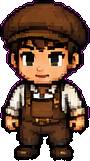
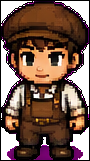
RP7 · Cliff Fisher (humanoid_20 overwrite) + Village Elder (new humanoid) wired · portraits + BETA_NPC 4-dir sheets + dialog prefixes + villager rename (Village Keeper → Village Elder) · preview gallery updated

diff --git a/rp7.html b/rp7.html
@@ -8396,6 +8396,8 @@ const DISTRICT_ORDER = ['malezor','zarvane','andrannor','veridan','netharion','v
 const NPC_ASSETS = {
   kelthor:            '/assets/humanoids/humanoid_06.png',
   quinn:              '/assets/humanoids/humanoid_30.png',
+  cliff_fisher:       '/assets/humanoids/humanoid_20.png',       // ★ 2026-07-30
+  village_elder:      '/assets/humanoids/village_elder.png',     // ★ 2026-07-30
   mom:                '/assets/humanoids/humanoid_24.png',
   dad:                '/assets/humanoids/humanoid_32.png',
   myara:              '/assets/humanoids/humanoid_42.png',
@@ -8419,6 +8421,11 @@ const DIALOG_PORTRAIT_PREFIX = {
   'MYARA:':          'myara',
   'YARA:':           'yara',
   'JAX:':            'jax',
+  'QUINN:':          'quinn',
+  'CLIFF FISHER:':   'cliff_fisher',    // ★ 2026-07-30
+  'FISHER:':         'cliff_fisher',
+  'VILLAGE ELDER:':  'village_elder',   // ★ 2026-07-30
+  'ELDER:':          'village_elder',
 };
 // Battle trainer-name → NPC_ASSETS key
 const BATTLE_TRAINER_ASSETS = {
@@ -8842,10 +8849,13 @@ const BETA_NPC = {
     // front pose; right + up cells re-use the front pose until the user
     // ships real side / back art.  dirs:true so the render code picks the
     // correct cell whenever the player turns to face them.
-    kelthor: { idle: new Image(), blink: new Image(), dirs: true },
-    yara:    { idle: new Image(), blink: new Image(), dirs: true },
-    jax:     { idle: new Image(), blink: new Image(), dirs: true },
-    quinn:   { idle: new Image(), blink: new Image(), dirs: true },
+    kelthor:       { idle: new Image(), blink: new Image(), dirs: true },
+    yara:          { idle: new Image(), blink: new Image(), dirs: true },
+    jax:           { idle: new Image(), blink: new Image(), dirs: true },
+    quinn:         { idle: new Image(), blink: new Image(), dirs: true },
+    // ★ 2026-07-30 · Malezor villagers.
+    cliff_fisher:  { idle: new Image(), blink: new Image(), dirs: true },
+    village_elder: { idle: new Image(), blink: new Image(), dirs: true },
   },
 };
 // ★ 2026-07-29 · Sprite swapped from Myara → Sonya.  Internal registry key
@@ -8872,6 +8882,10 @@ BETA_NPC.sprites.jax.idle.src      = 'assets/rp7/beta_assets/npc/jax_idle_dirs_n
 BETA_NPC.sprites.jax.blink.src     = 'assets/rp7/beta_assets/npc/jax_idle_dirs_native.png';
 BETA_NPC.sprites.quinn.idle.src    = 'assets/rp7/beta_assets/npc/quinn_idle_dirs_native.png';
 BETA_NPC.sprites.quinn.blink.src   = 'assets/rp7/beta_assets/npc/quinn_idle_dirs_native.png';
+BETA_NPC.sprites.cliff_fisher.idle.src   = 'assets/rp7/beta_assets/npc/cliff_fisher_idle_dirs_native.png';
+BETA_NPC.sprites.cliff_fisher.blink.src  = 'assets/rp7/beta_assets/npc/cliff_fisher_idle_dirs_native.png';
+BETA_NPC.sprites.village_elder.idle.src  = 'assets/rp7/beta_assets/npc/village_elder_idle_dirs_native.png';
+BETA_NPC.sprites.village_elder.blink.src = 'assets/rp7/beta_assets/npc/village_elder_idle_dirs_native.png';
 
 // ★ Gender is distributed across every Seer grunt by a hash of their HOME
 // tile, so a given grunt is always the same person — stable across reloads,
@@ -11306,7 +11320,7 @@ const VILLAGERS = {
       "The Ridge Warden waits for anyone who'd take her spot on the cliff.",
       'Long steps make the ground answer.  Short steps hide you.',
     ]},
-    { name: 'Village Keeper', lines: [
+    { name: 'Village Elder', lines: [
       "Your father talks in his sleep about the Ninth World.",
       "Nine districts.  Nine Gemshards.  One throne.  Simple, if you have a hundred years.",
       "The Mothergems remember every Rizer who touched them.  Even you.",

diff --git a/assets/rp7/beta_assets/preview.html b/assets/rp7/beta_assets/preview.html
@@ -257,12 +257,14 @@ async function main() {
   // ---------- NPC dir sheets row ----------
   const npcRow = document.getElementById('npcRow');
   const npcs = [
-    ['MOM',     'npc/mom_idle_dirs_native.png'],
-    ['DAD',     'npc/dad_idle_dirs_native.png'],
-    ['KELTHOR', 'npc/kelthor_idle_dirs_native.png'],
-    ['YARA',    'npc/yara_idle_dirs_native.png'],
-    ['JAX',     'npc/jax_idle_dirs_native.png'],
-    ['QUINN',   'npc/quinn_idle_dirs_native.png'],
+    ['MOM',           'npc/mom_idle_dirs_native.png'],
+    ['DAD',           'npc/dad_idle_dirs_native.png'],
+    ['KELTHOR',       'npc/kelthor_idle_dirs_native.png'],
+    ['YARA',          'npc/yara_idle_dirs_native.png'],
+    ['JAX',           'npc/jax_idle_dirs_native.png'],
+    ['QUINN',         'npc/quinn_idle_dirs_native.png'],
+    ['CLIFF FISHER',  'npc/cliff_fisher_idle_dirs_native.png'],   // ★ 2026-07-30
+    ['VILLAGE ELDER', 'npc/village_elder_idle_dirs_native.png'],  // ★ 2026-07-30
   ];
   for (const [name, src] of npcs) {
     const img = await load(src);
